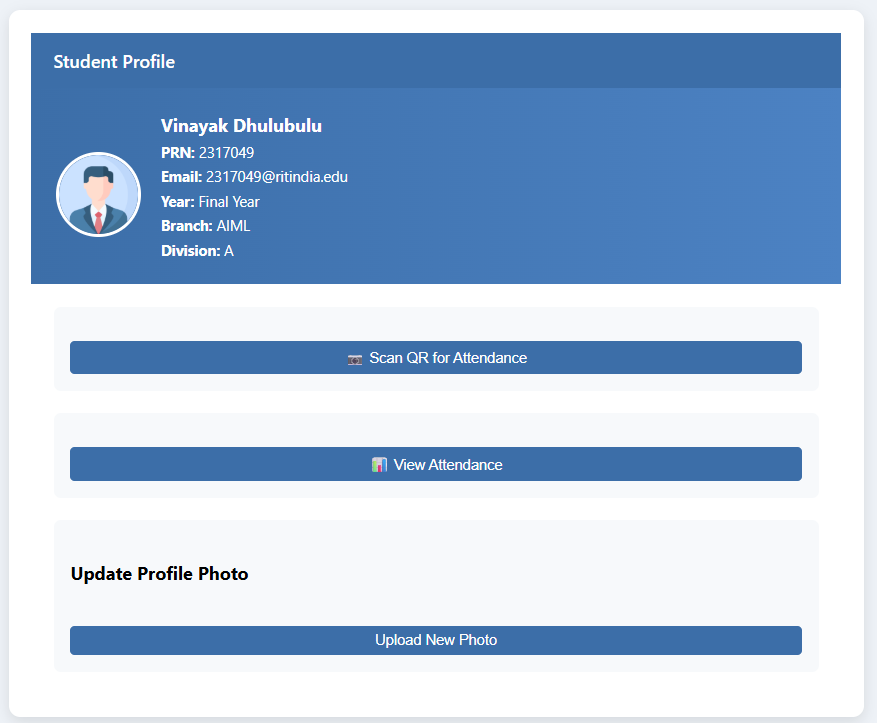
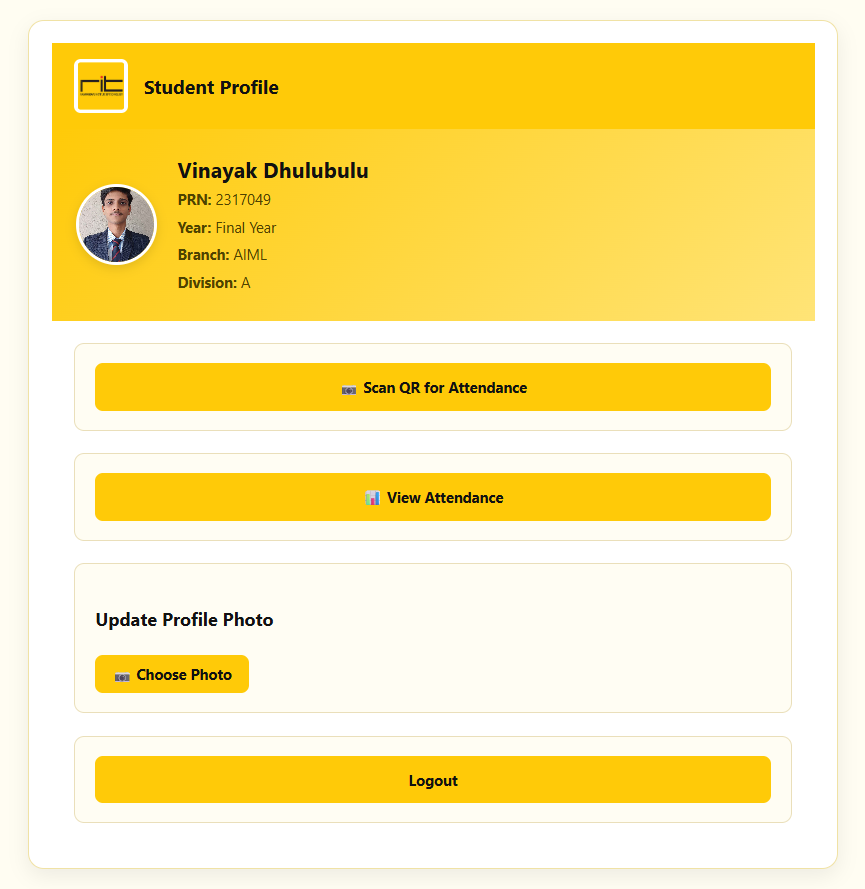
Updated Readme File

diff --git a/README.md b/README.md
@@ -41,7 +41,7 @@ The system workflow is divided into key modules:
 
 ### **Login Page**
 
-![Login Page](screenshots/Login.png)
+![Login Page](screenshots\Login_Page.png)
 
 ---
 
@@ -53,7 +53,27 @@ The system workflow is divided into key modules:
 
 ### **Teacher Attendance Dashboard**
 
-![Teacher Attendance Dashboard](screenshots/Teacher_Attendance.png)
+![Teacher Attendance Dashboard 1](screenshots/Teacher_Attendance_Dashboard1.png)
+
+![Teacher Attendance Dashboard 2](screenshots/Teacher_Attendance_Dashboard2.png)
+
+---
+
+### **Apply Leave**
+
+![Apply Leave](screenshots/Leave_Apply.png)
+
+---
+
+### **Monthly Attendace List**
+
+![Monthly Attendance List](screenshots/Monthly_Attendance_Report.png)
+
+---
+
+### **Defaulter List**
+
+![Defaulter List](screenshots/Defaulter_Report.png)
 
 ---
 
@@ -65,19 +85,29 @@ The system workflow is divided into key modules:
 
 ### **Student Attendance Dashboard**
 
-![Student Attendance Dashboard](screenshots/Student_Attendance.png)
+![Student Attendance Dashboard](screenshots/Student_Attendance_Dashboard.png)
 
 ---
 
 ### **Scanner**
 
-![Scanner](screenshots/Scanner.jpeg)
+![Scanner](screenshots/QR_Scanner.jpeg)
 
 ---
 
 ### **Selfie Camera**
 
-![SelfieCamera](screenshots/Selfie_Camera.jpg)
+![SelfieCamera](screenshots/Face_Scanner.jpeg)
+
+---
+
+### **Admin Dashboard**
+
+![Admin Dashboard 1](screenshots/Admin_Dashboard1.png)
+
+![Admin Dashboard 2](screenshots/Admin_Dashboard2.png)
+
+![Admin Dashboard 3](screenshots/Admin_Dashboard3.png)
 
 ---
 
